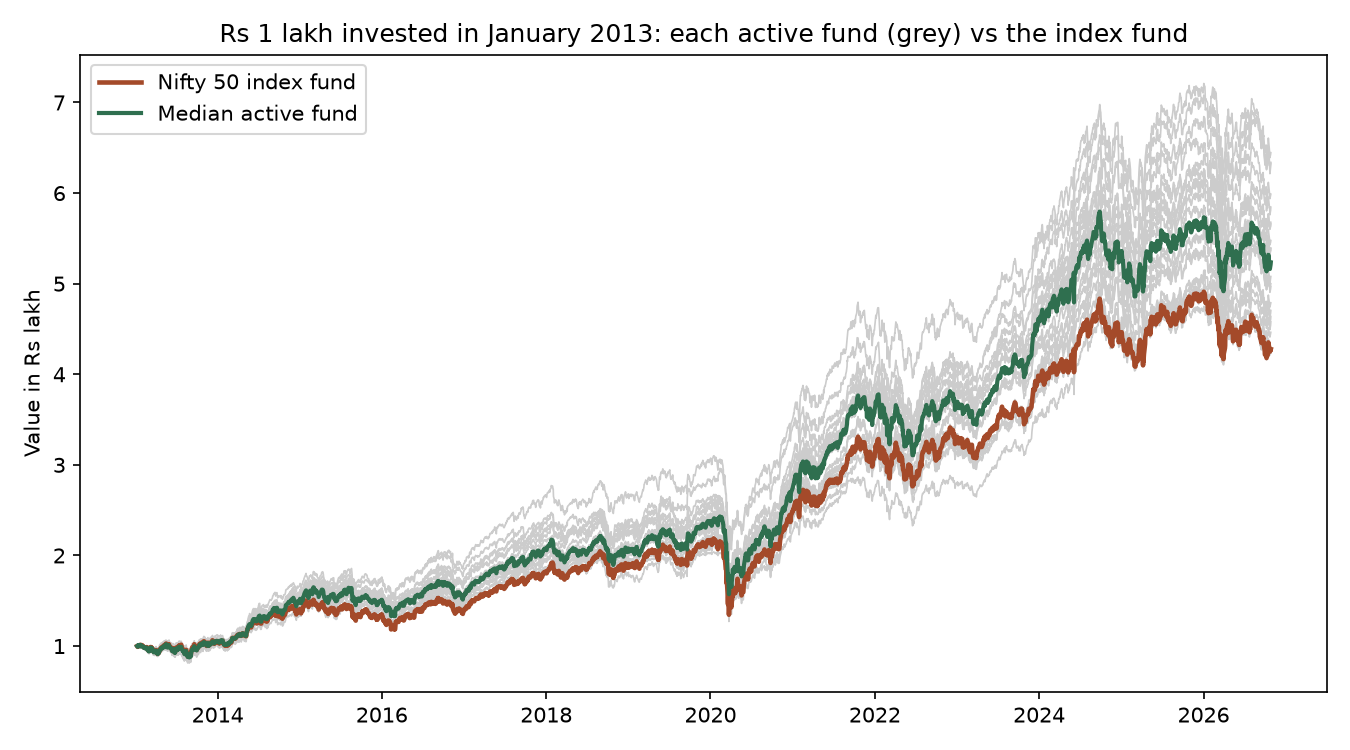
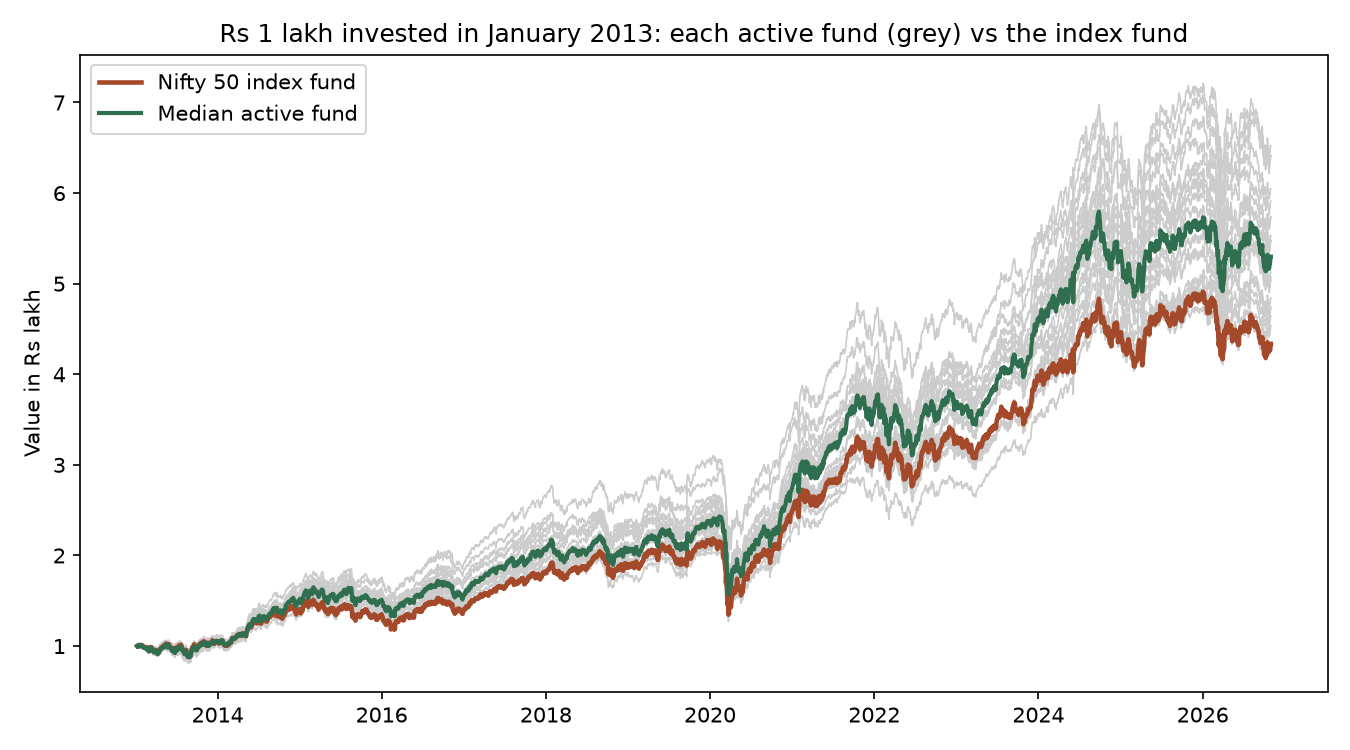
Data refresh: NAVs to 2026-11-02

diff --git a/README.md b/README.md
@@ -5,7 +5,7 @@
 **Short answer:** Over 2013–2026, yes: 19 of 20 surviving active large-cap funds beat the UTI Nifty 50 Index Fund. But it is **streaky**, and the full-period number flatters active funds because of **survivorship bias**. Active funds won almost every 3-year window up to 2018, then most of them *lost* to the index from 2019 to 2021, and they have been winning again since 2024.
 
 <!-- latest -->
-**Latest data: 27 Oct 2026.** Over 13.8 years, the Nifty 50 index fund returned 11.11% a year; 19 of 20 surviving active funds beat it. Right now, 100% of active funds are ahead of the index over the past 3 years.
+**Latest data: 31 Oct 2026.** Over 13.8 years, the Nifty 50 index fund returned 11.21% a year; 19 of 20 surviving active funds beat it. Right now, 100% of active funds are ahead of the index over the past 3 years.
 <!-- /latest -->
 
 ## Data
